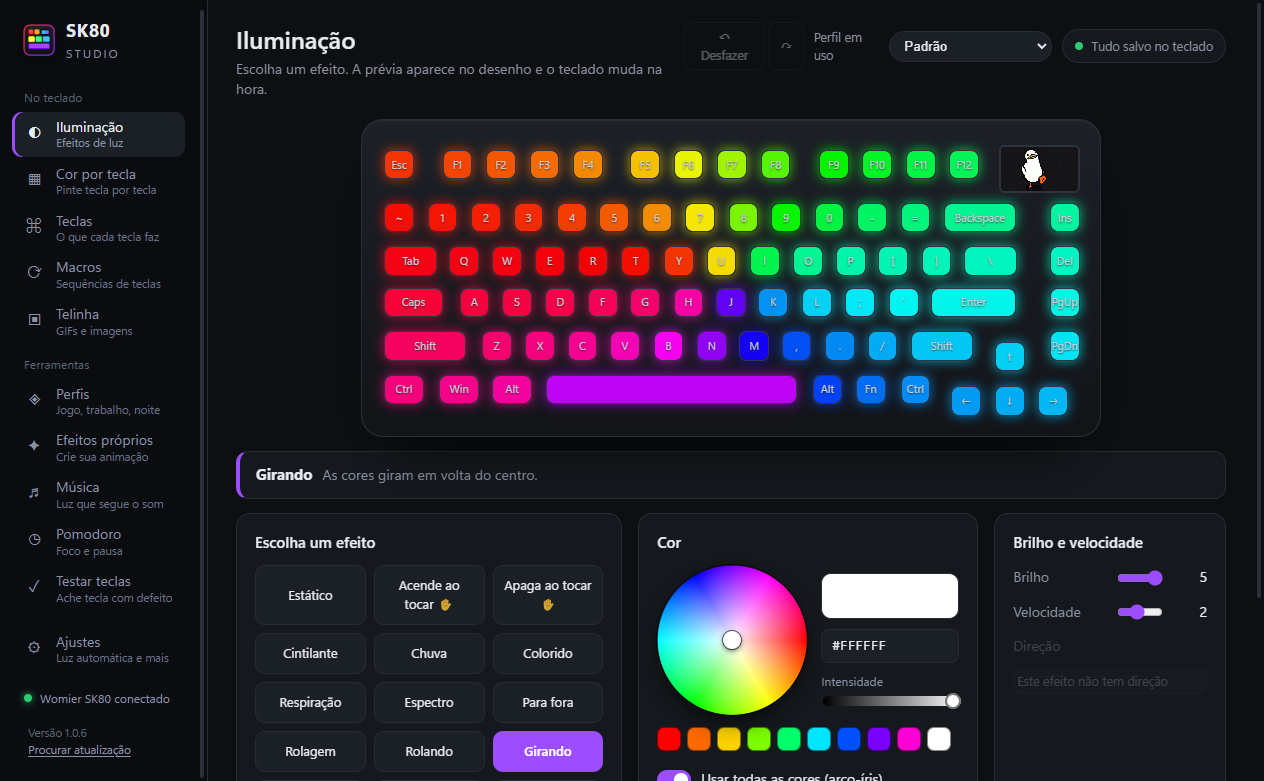
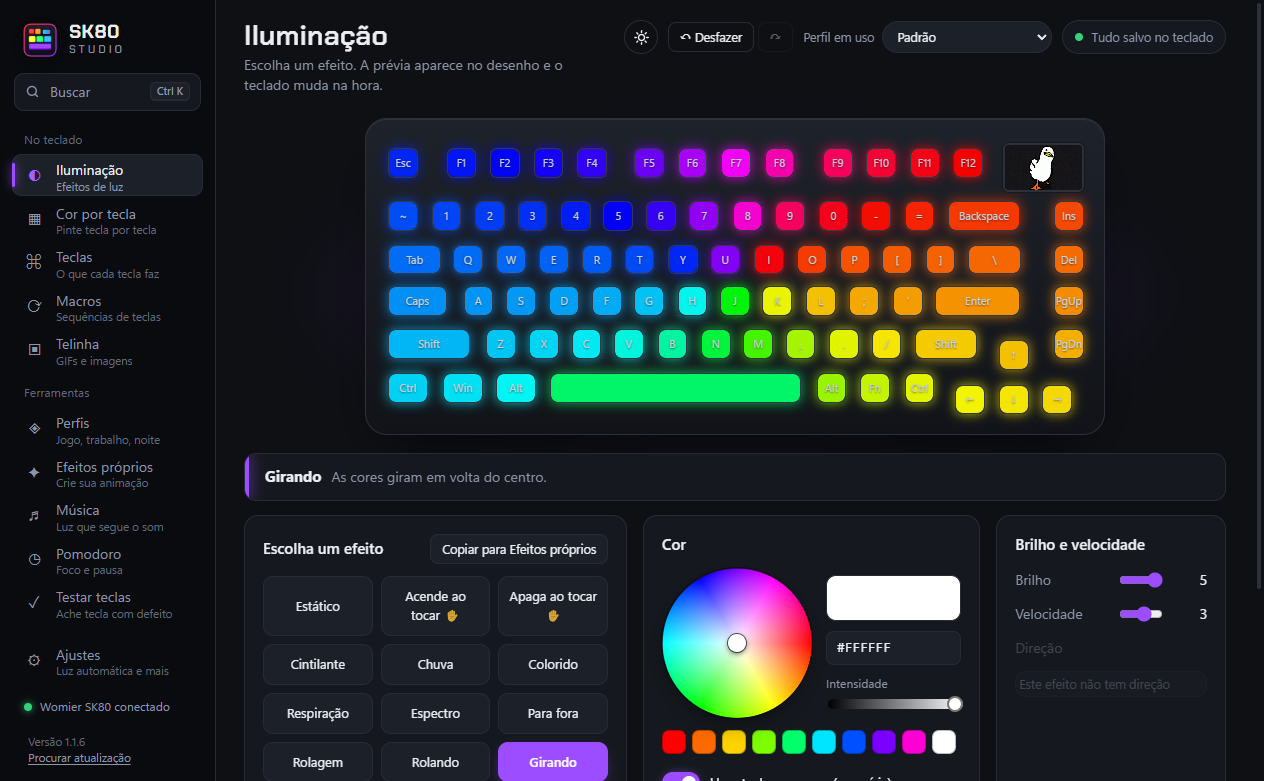
v1.1.7: fix copying effects that start dark; update download page
- Loop detection compares the whole animation, not only the first picture (Inclinado copied only its dark part)
- Download page lists features up to 1.1.6 with new screenshots

diff --git a/build/site.html b/build/site.html
@@ -120,18 +120,21 @@
     <p class="sub">Tudo é salvo sozinho no teclado. Não existe botão “Salvar”.</p>
     <ul class="feats">
       <li><b>Iluminação</b><span>Os 19 efeitos do teclado, com uma prévia animada de cada um antes de escolher.</span></li>
-      <li><b>Cor por tecla</b><span>Clique ou arraste para pintar. Modelos prontos (WASD, setas, F1–F12) e degradê.</span></li>
-      <li><b>Efeitos próprios</b><span>Desenhe quadros de luz e toque a sua animação em loop no teclado.</span></li>
+      <li><b>Cor por tecla</b><span>Clique ou arraste para pintar. Modelos prontos (WASD, setas, F1–F12), degradê e conta-gotas (Alt + clique).</span></li>
+      <li><b>Efeitos próprios</b><span>Desenhe quadros de luz e toque a animação em loop. Arraste os quadros para mudar a ordem, ou copie um dos 19 efeitos prontos e edite.</span></li>
       <li><b>Teclas e macros</b><span>Troque o que cada tecla faz, grave sequências e use a biblioteca de macros prontas.</span></li>
       <li><b>Telinha</b><span>Mande GIFs para a tela de 160×96, enquadre com zoom e guarde tudo numa biblioteca.</span></li>
-      <li><b>Perfis</b><span>Um perfil para cada jogo. O teclado troca sozinho quando você abre o programa.</span></li>
+      <li><b>Perfis e galeria</b><span>Um perfil para cada jogo, que troca sozinho quando você abre o programa. Compartilhe junto com o GIF da telinha e baixe perfis de outras pessoas.</span></li>
       <li><b>Música</b><span>As teclas pulsam com o som que está tocando no PC.</span></li>
-      <li><b>Luzes de aviso</b><span>Caps Lock aceso, barra de volume nas teclas de número e aviso de mensagem.</span></li>
-      <li><b>Luz automática</b><span>Apaga quando o PC bloqueia ou fica parado, e muda de noite no horário que você escolher.</span></li>
+      <li><b>Luzes de aviso</b><span>Caps Lock aceso, barra de volume nas teclas de número e uma tecla piscando quando chega mensagem no WhatsApp ou no Discord.</span></li>
+      <li><b>Luz por horário</b><span>Apaga quando o PC bloqueia ou fica parado. Monte quantos horários quiser: brilho baixo à noite, um perfil de manhã.</span></li>
+      <li><b>Backup diário</b><span>Uma cópia de tudo por dia, com as últimas 14 guardadas. Voltar para uma delas é um clique.</span></li>
+      <li><b>Tema claro e escuro</b><span>Escolha o tema ou deixe seguir o Windows. A cor do seu teclado ilumina o app.</span></li>
+      <li><b>Busca rápida</b><span>Aperte Ctrl + K, digite “GIF”, “backup” ou “noite” e vá direto para a tela ou o ajuste.</span></li>
     </ul>
     <div class="shots">
       <img src="screenshot.png" alt="Tela de Iluminação do SK80 Studio com o efeito Girando em arco-íris" loading="lazy">
-      <img src="screenshot-efeitos.png" alt="Editor de efeitos próprios do SK80 Studio, com os quadros de uma onda arco-íris" loading="lazy">
+      <img src="screenshot-efeitos.png" alt="Editor de efeitos próprios do SK80 Studio no tema claro, com os quadros de uma onda arco-íris" loading="lazy">
     </div>
   </div>
 </section>
@@ -155,7 +158,7 @@
     <details><summary>Funciona com o meu teclado?</summary><p>Foi feito e testado com o Womier / XVX SK80 com telinha, ligado pelo cabo. Outros teclados não são reconhecidos.</p></details>
     <details><summary>É seguro?</summary><p>O código é aberto: qualquer pessoa pode ler tudo no GitHub. O app não pede login, não coleta dados e só conversa com o teclado e com o GitHub para procurar atualização.</p></details>
     <details><summary>Preciso manter o app aberto?</summary><p>Não para as luzes, teclas e macros: tudo fica salvo no teclado. Música, efeitos próprios, Pomodoro e luzes de aviso precisam do app aberto ou escondido na bandeja.</p></details>
-    <details><summary>Posso perder minhas configurações ao atualizar?</summary><p>Não. Perfis, macros e a biblioteca de GIFs ficam guardados no seu computador e continuam lá depois de cada atualização.</p></details>
+    <details><summary>Posso perder minhas configurações ao atualizar?</summary><p>Não. Perfis, macros e a biblioteca de GIFs ficam guardados no seu computador e continuam lá depois de cada atualização. E o backup diário guarda uma cópia de tudo, para você voltar a qualquer um dos últimos 14 dias.</p></details>
     <details><summary>É oficial da Womier?</summary><p>Não. É um projeto pessoal e independente, sem ligação com a Womier ou a XVX.</p></details>
   </div>
 </section>

diff --git a/docs/index.html b/docs/index.html
@@ -120,18 +120,21 @@
     <p class="sub">Tudo é salvo sozinho no teclado. Não existe botão “Salvar”.</p>
     <ul class="feats">
       <li><b>Iluminação</b><span>Os 19 efeitos do teclado, com uma prévia animada de cada um antes de escolher.</span></li>
-      <li><b>Cor por tecla</b><span>Clique ou arraste para pintar. Modelos prontos (WASD, setas, F1–F12) e degradê.</span></li>
-      <li><b>Efeitos próprios</b><span>Desenhe quadros de luz e toque a sua animação em loop no teclado.</span></li>
+      <li><b>Cor por tecla</b><span>Clique ou arraste para pintar. Modelos prontos (WASD, setas, F1–F12), degradê e conta-gotas (Alt + clique).</span></li>
+      <li><b>Efeitos próprios</b><span>Desenhe quadros de luz e toque a animação em loop. Arraste os quadros para mudar a ordem, ou copie um dos 19 efeitos prontos e edite.</span></li>
       <li><b>Teclas e macros</b><span>Troque o que cada tecla faz, grave sequências e use a biblioteca de macros prontas.</span></li>
       <li><b>Telinha</b><span>Mande GIFs para a tela de 160×96, enquadre com zoom e guarde tudo numa biblioteca.</span></li>
-      <li><b>Perfis</b><span>Um perfil para cada jogo. O teclado troca sozinho quando você abre o programa.</span></li>
+      <li><b>Perfis e galeria</b><span>Um perfil para cada jogo, que troca sozinho quando você abre o programa. Compartilhe junto com o GIF da telinha e baixe perfis de outras pessoas.</span></li>
       <li><b>Música</b><span>As teclas pulsam com o som que está tocando no PC.</span></li>
-      <li><b>Luzes de aviso</b><span>Caps Lock aceso, barra de volume nas teclas de número e aviso de mensagem.</span></li>
-      <li><b>Luz automática</b><span>Apaga quando o PC bloqueia ou fica parado, e muda de noite no horário que você escolher.</span></li>
+      <li><b>Luzes de aviso</b><span>Caps Lock aceso, barra de volume nas teclas de número e uma tecla piscando quando chega mensagem no WhatsApp ou no Discord.</span></li>
+      <li><b>Luz por horário</b><span>Apaga quando o PC bloqueia ou fica parado. Monte quantos horários quiser: brilho baixo à noite, um perfil de manhã.</span></li>
+      <li><b>Backup diário</b><span>Uma cópia de tudo por dia, com as últimas 14 guardadas. Voltar para uma delas é um clique.</span></li>
+      <li><b>Tema claro e escuro</b><span>Escolha o tema ou deixe seguir o Windows. A cor do seu teclado ilumina o app.</span></li>
+      <li><b>Busca rápida</b><span>Aperte Ctrl + K, digite “GIF”, “backup” ou “noite” e vá direto para a tela ou o ajuste.</span></li>
     </ul>
     <div class="shots">
       <img src="screenshot.png" alt="Tela de Iluminação do SK80 Studio com o efeito Girando em arco-íris" loading="lazy">
-      <img src="screenshot-efeitos.png" alt="Editor de efeitos próprios do SK80 Studio, com os quadros de uma onda arco-íris" loading="lazy">
+      <img src="screenshot-efeitos.png" alt="Editor de efeitos próprios do SK80 Studio no tema claro, com os quadros de uma onda arco-íris" loading="lazy">
     </div>
   </div>
 </section>
@@ -155,7 +158,7 @@
     <details><summary>Funciona com o meu teclado?</summary><p>Foi feito e testado com o Womier / XVX SK80 com telinha, ligado pelo cabo. Outros teclados não são reconhecidos.</p></details>
     <details><summary>É seguro?</summary><p>O código é aberto: qualquer pessoa pode ler tudo no GitHub. O app não pede login, não coleta dados e só conversa com o teclado e com o GitHub para procurar atualização.</p></details>
     <details><summary>Preciso manter o app aberto?</summary><p>Não para as luzes, teclas e macros: tudo fica salvo no teclado. Música, efeitos próprios, Pomodoro e luzes de aviso precisam do app aberto ou escondido na bandeja.</p></details>
-    <details><summary>Posso perder minhas configurações ao atualizar?</summary><p>Não. Perfis, macros e a biblioteca de GIFs ficam guardados no seu computador e continuam lá depois de cada atualização.</p></details>
+    <details><summary>Posso perder minhas configurações ao atualizar?</summary><p>Não. Perfis, macros e a biblioteca de GIFs ficam guardados no seu computador e continuam lá depois de cada atualização. E o backup diário guarda uma cópia de tudo, para você voltar a qualquer um dos últimos 14 dias.</p></details>
     <details><summary>É oficial da Womier?</summary><p>Não. É um projeto pessoal e independente, sem ligação com a Womier ou a XVX.</p></details>
   </div>
 </section>

diff --git a/src/renderer/extras3.js b/src/renderer/extras3.js
@@ -187,10 +187,17 @@ function lightToFrames() {
   let T = 3, still = false, looped = false;
   if (!reactive) {
     const c0 = at(0);
-    if (diff(c0, at(0.37)) < 1 && diff(c0, at(1.13)) < 1) still = true; // doesn't move
+    if ([0.37, 1.13, 2.9, 5.3, 8.7, 11.9].every((t) => diff(c0, at(t)) < 1)) still = true; // doesn't move
     else {
-      // first moment (after 0.4 s) where the keyboard looks like the start again = one full turn
-      for (let t = 0.4; t <= 12; t += 0.02) if (diff(c0, at(t)) < 3) { T = t; looped = true; break; }
+      // One full turn = the shortest shift T where the WHOLE animation lines up with itself (compared over
+      // 3 seconds), not just the first picture: effects that start dark (Inclinado) are dark at other moments too.
+      const STEP = 0.02, WIN = 150, MAXT = 12;
+      const F = []; for (let i = 0; i * STEP <= MAXT + WIN * STEP; i++) F.push(at(i * STEP));
+      let busy = 0; for (let j = 0; j < WIN; j++) busy = Math.max(busy, diff(F[0], F[j]));
+      for (let k = Math.round(0.4 / STEP); k * STEP <= MAXT; k++) {
+        let e = 0; for (let j = 0; j < WIN; j += 3) e = Math.max(e, diff(F[j], F[j + k]));
+        if (e < Math.max(2, busy * 0.06)) { T = k * STEP; looped = true; break; }
+      }
     }
   }
   const count = still ? 1 : Math.max(6, Math.min(48, Math.round(T / 0.1)));

diff --git a/src/renderer/extras2.js b/src/renderer/extras2.js
@@ -2,6 +2,9 @@
    (Caps Lock, message alert, Pomodoro), key tester, community gallery, GIF per profile, "what's new".
    Uses globals from app.js and extras.js. */
 const CHANGES = {
+  '1.1.7': [
+    '“Copiar para Efeitos próprios” agora grava a volta inteira de efeitos que começam apagados, como o Inclinado. Se você copiou antes e ficou quase tudo apagado, copie de novo.',
+  ],
   '1.1.6': [
     'Aviso de mensagem: escolha o programa numa lista dos programas abertos, sem precisar digitar o nome.',
     'A cor e o botão de ligar das luzes de aviso não ficam mais um em cima do outro.',
